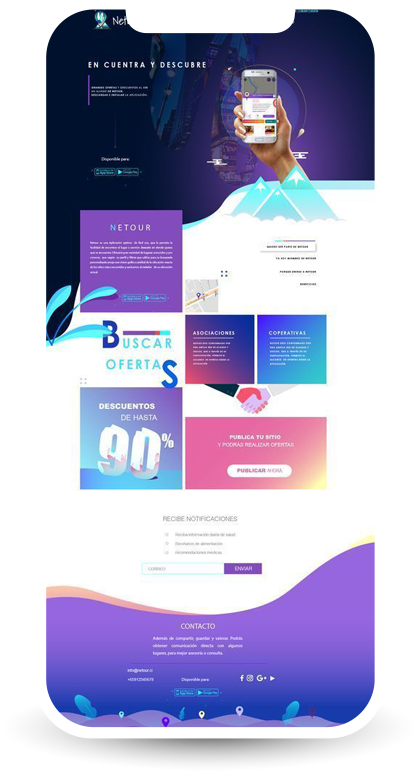
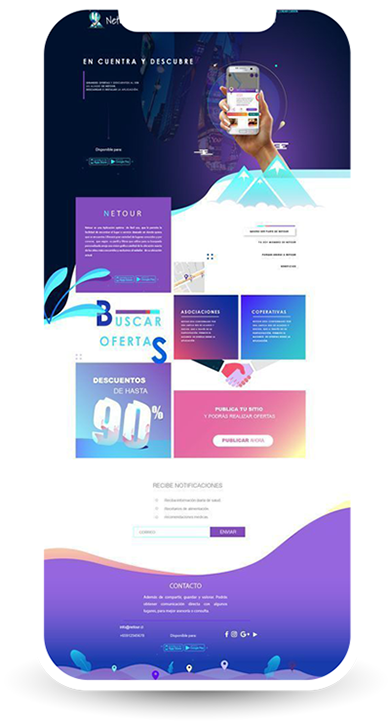
Add files via upload

diff --git a/ajence.html b/ajence.html
@@ -43,7 +43,7 @@
         <div class="hero-right" id="hero-rightt">
             <div class="container">
                 <div class="row">
-                    <div class="col-lg-6 absolute">
+                    <div class="col-lg-6 col-11 absolute" id="absolut">
                         <div id="content-right">
                             <h1>Web Design &<br>
                                 Development<br>
@@ -64,7 +64,7 @@
                         </div>
                     </div>
 
-                    <div class="col-lg-6 absolute">
+                    <div class="col-lg-6 col-11 absolute"  id="absolut">
                         <div id="content-left">
                             <img class="" src="iphone.png" alt="">
                         </div>

diff --git a/ajence.css b/ajence.css
@@ -452,6 +452,7 @@ background-color: black;
        justify-content: center;
        text-align: center;
     }
+
     .flat-right{
         padding-top: 9em;
     }
@@ -497,6 +498,12 @@ background-color: black;
 }
 .form-singup select{
     width: 300px;
+}
+#content-right{
+    padding: 0 0 0 2em;
+}
+#content-left{
+    padding: 0 0 0 2em;
 }
 }
 
